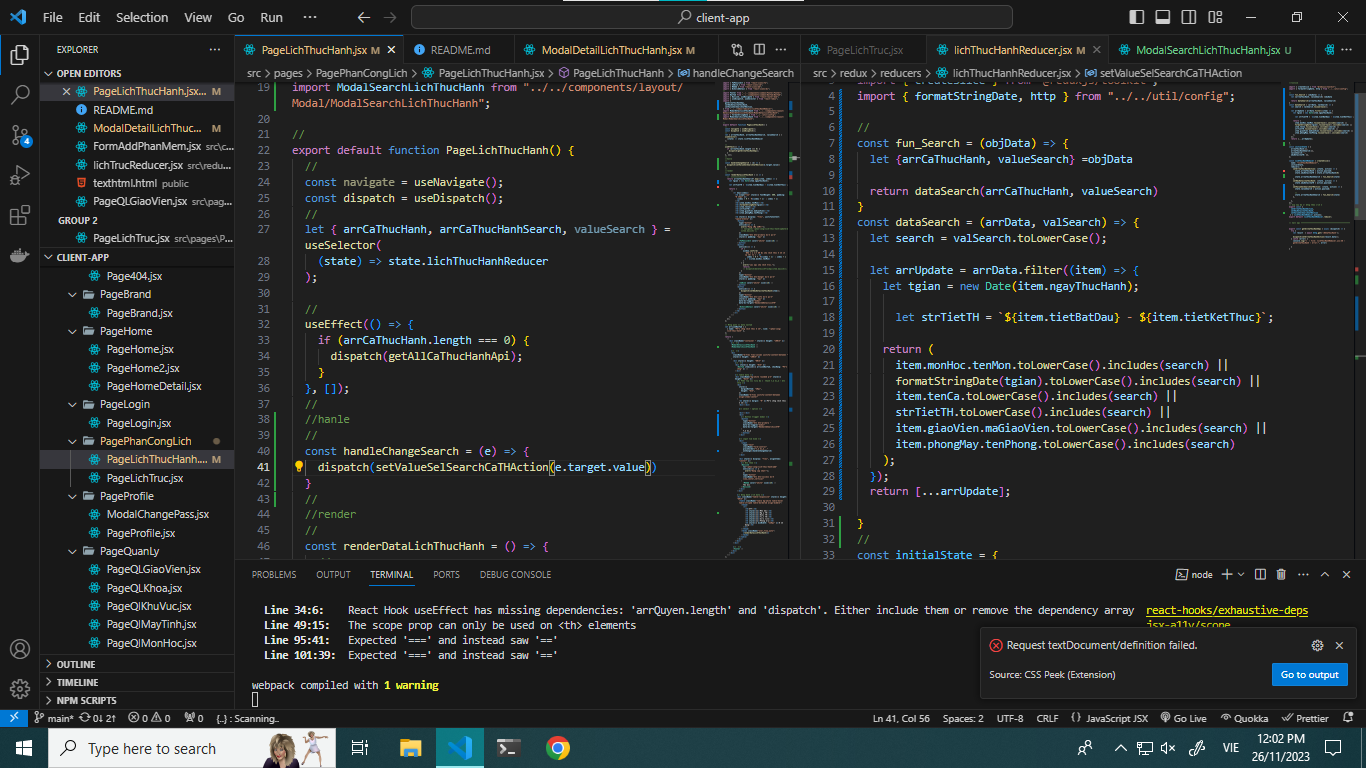
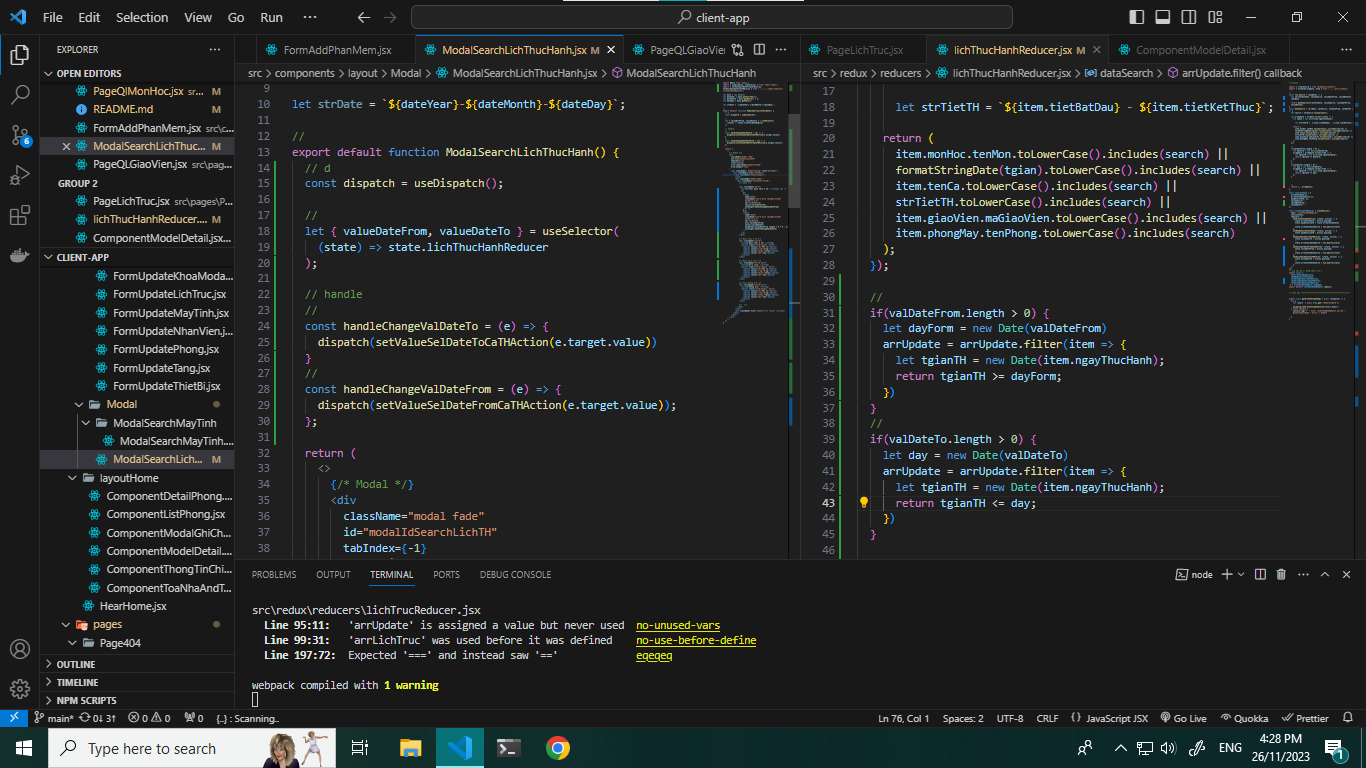
QLLichTH: finish search TgianTH

diff --git a/src/pages/PageQuanLy/PageQlMonHoc.jsx b/src/pages/PageQuanLy/PageQlMonHoc.jsx
@@ -11,7 +11,11 @@ import Footer from "../../components/common/Footer/Footer";
 import Database from "../../util/database/Database";
 import { formatStringDate } from "../../util/config";
 import { useDispatch, useSelector } from "react-redux";
-import { getAllMonHoc, setValueSelectAction, setValueTxtSearchAction } from "../../redux/reducers/monHocReducer";
+import {
+  getAllMonHoc,
+  setValueSelectAction,
+  setValueTxtSearchAction,
+} from "../../redux/reducers/monHocReducer";
 
 export default function PageQlMonHoc() {
   const dispatch = useDispatch();
@@ -24,35 +28,29 @@ export default function PageQlMonHoc() {
     dispatch(action);
   }, []);
 
-
   //handle
   const handleChangeSearch = (e) => {
     dispatch(setValueTxtSearchAction(e.target.value.trim()));
-
   };
   const handleChangeSelectAction = (e) => {
     dispatch(setValueSelectAction(e.target.value.trim()));
-
-  }
+  };
 
   //render
   const renderDataMon = () => {
-
     return arrMonHocSearch?.map((item, index) => {
       let ngayBD = new Date(item?.ngayBatDau);
       let ngayKT = new Date(item?.ngayBatDau);
 
-      ngayKT.setDate(ngayKT.getDate() + item?.soBuoi * 7);
+      ngayKT.setDate(ngayKT.getDate() + (item?.soBuoi + 1) * 7);
 
       // render
       const renderTrangThai = () => {
-        return <td >Đang Cập nhật</td>
         let day = new Date();
         if (day > ngayKT) {
           return <td style={{ backgroundColor: "#ff6666" }}>Kết thúc</td>;
         }
         if (ngayBD > day) {
-          
           return <td style={{ backgroundColor: "#fff563" }}>Chờ mở lớp</td>;
         }
         return <td style={{ backgroundColor: "#4dff7c" }}>Đang học</td>;
@@ -65,10 +63,8 @@ export default function PageQlMonHoc() {
           <td>{item?.maMon}</td>
           <td>{item?.tenMon}</td>
           <td>{item?.soBuoi}</td>
-          <td>{formatStringDate(new Date(item.ngayBatDau))}</td>
-          <td>{formatStringDate(new Date(item.ngayKetThuc))}</td>
-          {/* <td>{formatStringDate(ngayBD)}</td>
-          <td>{formatStringDate(ngayKT)}</td> */}
+          <td>{formatStringDate(ngayBD)}</td>
+          <td>{formatStringDate(ngayKT)}</td>
           {renderTrangThai()}
 
           <td style={{ display: "flex", justifyContent: "space-evenly" }}>
@@ -115,16 +111,16 @@ export default function PageQlMonHoc() {
   };
   const renderSelectTrangThai = () => {
     return (
-        <div className=" col-2 m-2 ">
-          <select className="form-select " onChange={handleChangeSelectAction}>
-            <option value='0'>Toàn bộ</option>
-            <option value="1">Kết thúc</option>
-            <option value="2">Chờ mở lớp</option>
-            <option value="3">Đang học</option>
-          </select>
-        </div>
-    )
-  }
+      <div className=" col-2 m-2 ">
+        <select className="form-select " onChange={handleChangeSelectAction}>
+          <option value="0">Toàn bộ</option>
+          <option value="1">Kết thúc</option>
+          <option value="2">Chờ mở lớp</option>
+          <option value="3">Đang học</option>
+        </select>
+      </div>
+    );
+  };
 
   // Mảng quản lý data navtab
   let arrLinkNavTab = [{ name: "Quản lý môn học", link: "" }];
@@ -154,20 +150,20 @@ export default function PageQlMonHoc() {
               <div></div>
 
               {/* select - option */}
-                {renderSelectTrangThai()}
+              {renderSelectTrangThai()}
               {/* input tim kiem */}
-               <div>
-                  <input
-                    type="text"
-                    className="form-control"
-                    id
-                    placeholder="tìm kiếm..."
-                    // value={txtSearch}
-                    onChange={handleChangeSearch}
-                  />
-                </div>
+              <div>
+                <input
+                  type="text"
+                  className="form-control"
+                  id
+                  placeholder="tìm kiếm..."
+                  // value={txtSearch}
+                  onChange={handleChangeSearch}
+                />
+              </div>
 
-                {/* Btn them */}
+              {/* Btn them */}
               <div style={{ display: "flex", alignItems: "center" }}>
                 <NavLink
                   // to="/quan-ly/tang/add"

diff --git a/src/components/layout/Modal/ModalSearchLichThucHanh.jsx b/src/components/layout/Modal/ModalSearchLichThucHanh.jsx
@@ -1,4 +1,6 @@
 import React from "react";
+import { useDispatch, useSelector } from "react-redux";
+import { setValueSelDateFromCaTHAction, setValueSelDateToCaTHAction } from "../../../redux/reducers/lichThucHanhReducer";
 
 let date = new Date();
 let dateYear = date.getFullYear();
@@ -9,6 +11,24 @@ let strDate = `${dateYear}-${dateMonth}-${dateDay}`;
 
 //
 export default function ModalSearchLichThucHanh() {
+  // d
+  const dispatch = useDispatch();
+
+  //
+  let { valueDateFrom, valueDateTo } = useSelector(
+    (state) => state.lichThucHanhReducer
+  );
+
+  // handle
+  //
+  const handleChangeValDateTo = (e) => {
+    dispatch(setValueSelDateToCaTHAction(e.target.value))
+  }
+  //
+  const handleChangeValDateFrom = (e) => {
+    dispatch(setValueSelDateFromCaTHAction(e.target.value));
+  };
+
   return (
     <>
       {/* Modal */}
@@ -38,24 +58,60 @@ export default function ModalSearchLichThucHanh() {
                 {/* body */}
 
                 <div className="pt-2">
-                  <strong>- Thời gian thực hành: </strong> <br />
-                  <strong>Từ: 
-                  <input
-                    type="date"
-                    className="col-4 mx-2"
-                    id="dateFrom"
-                    max={strDate}
-                  /> Đến: 
-                  <input
-                    type="date"
-                    className="col-4 mx-2"
-                    id="dateTo"
-                    max={strDate}
-                    disabled={false}
-                  />
+                  <strong>Thời gian thực hành: </strong> <br />
+                  <p>
+                    Từ:
+                    <input
+                      type="date"
+                      className="col-4 mx-2 rounded border border-1 p-1"
+                      id="valDateFrom"
+                      value={valueDateFrom}
+                      onChange={handleChangeValDateFrom}
+                    />{" "}
+                    Đến:
+                    <input
+                      type="date"
+                      className="col-4 mx-2 rounded border border-1 p-1"
+                      id="valDateTo"
+                      min={valueDateFrom}
+                      value={valueDateTo}
+                      disabled={valueDateFrom.length > 0 ? 0 : 1}
+                      onChange={handleChangeValDateTo}
+                    />
+                  </p>
+                </div>
 
+                {/* Buổi thực hành */}
+                <div className="col-6">
+                  <strong>Buổi thực hành: </strong>
+                  <select class="form-select  ms-2">
+                    <option value={-1}>Tất cả</option>
+                    <option value="sáng">Sáng</option>
+                    <option value="chiều">Chiều</option>
+                    <option value="tối">Tối</option>
+                  </select>
+                </div>
 
-</strong>
+                {/* Buổi Giáo viên */}
+                <div className="col-6 pt-3">
+                  <strong>Giáo viên: </strong>
+                  <select class="form-select  ms-2">
+                    <option value={-1}>Tất cả</option>
+                    <option value="sáng">Sáng</option>
+                    <option value="chiều">Chiều</option>
+                    <option value="tối">Tối</option>
+                  </select>
+                </div>
+
+                {/* Buổi phòng máy */}
+                <div className="col-6 pt-3">
+                  <strong>Phòng máy: </strong>
+                  <select class="form-select  ms-2">
+                    <option value={-1}>Tất cả</option>
+                    <option value="sáng">Sáng</option>
+                    <option value="chiều">Chiều</option>
+                    <option value="tối">Tối</option>
+                  </select>
                 </div>
 
                 {/*  */}

diff --git a/src/redux/reducers/lichThucHanhReducer.jsx b/src/redux/reducers/lichThucHanhReducer.jsx
@@ -5,11 +5,11 @@ import { formatStringDate, http } from "../../util/config";
 
 //
 const fun_Search = (objData) => {
-  let {arrCaThucHanh, valueSearch} =objData
+  let {arrCaThucHanh, valueSearch, valueDateFrom, valueDateTo} =objData
 
-  return dataSearch(arrCaThucHanh, valueSearch)
+  return dataSearch(arrCaThucHanh, valueSearch, valueDateFrom, valueDateTo)
 }
-const dataSearch = (arrData, valSearch) => {
+const dataSearch = (arrData, valSearch, valDateFrom, valDateTo ) => {
   let search = valSearch.toLowerCase();
   
   let arrUpdate = arrData.filter((item) => {
@@ -26,15 +26,37 @@ const dataSearch = (arrData, valSearch) => {
       item.phongMay.tenPhong.toLowerCase().includes(search) 
     );
   });
-  return [...arrUpdate];
 
+  //
+  if(valDateFrom.length > 0) {
+    let dayForm = new Date(valDateFrom)
+    arrUpdate = arrUpdate.filter(item => {
+      let tgianTH = new Date(item.ngayThucHanh);
+      return tgianTH >= dayForm;
+    })
+  }
+  //
+  if(valDateTo.length > 0) {
+    let day = new Date(valDateTo)
+    arrUpdate = arrUpdate.filter(item => {
+      let tgianTH = new Date(item.ngayThucHanh);
+      return tgianTH <= day;
+    })
+  }
+
+
+
+  //
+  return [...arrUpdate];
 }
 //
 const initialState = {
   arrCaThucHanh:[],
   arrCaThucHanhSearch:[],
-  valueSearch:'',
   objDetailCaTH: {},
+  valueSearch:'',
+  valueDateFrom:'',
+  valueDateTo:'',
 };
 
 const lichThucHanhReducer = createSlice({
@@ -52,18 +74,28 @@ const lichThucHanhReducer = createSlice({
     },
     setValueSelSearchCaTHAction: (state, action) => {
       state.valueSearch = action.payload;
-
       //
       state.arrCaThucHanhSearch = fun_Search(state)
     },
-    
+    setValueSelDateFromCaTHAction: (state, action) => {
+      state.valueDateFrom = action.payload;
+      //
+      state.arrCaThucHanhSearch = fun_Search(state)
+    },
+    setValueSelDateToCaTHAction: (state, action) => {
+      state.valueDateTo = action.payload;
+      //
+      state.arrCaThucHanhSearch = fun_Search(state)
+    },
   },
 });
 // exp nay de sử dụng theo cách 2
 export const { 
   setArrCaThucHanhAction,
   setObjDetailCaThucHanh,
-  setValueSelSearchCaTHAction
+  setValueSelSearchCaTHAction,
+  setValueSelDateFromCaTHAction,
+  setValueSelDateToCaTHAction,
  } = lichThucHanhReducer.actions;
 export default lichThucHanhReducer.reducer;
 

diff --git a/src/redux/reducers/lichTrucReducer.jsx b/src/redux/reducers/lichTrucReducer.jsx
@@ -140,7 +140,6 @@ export const getAllTangByToaNhaApi = (arrtang) => {
 export const getAllTangChuaCoLichTrucApi = async (dispatch) => {
   try {
 
-    console.log('api này bi lỗi - lấy ds tang đã có lịch trực');
     const result = await http.get("/TangChuaCoNhanVienTrucTrongThang");
 
     let arrDataToaNha_z = result.data.map((item) => {

diff --git a/README.md b/README.md
@@ -123,10 +123,17 @@
     - lichTrucReducer :có api server rồi - update di - T sửa page QL vs form add rồi 
     - lichTrucReducer: api lỗi TangChuaCoNhanVienTrucTrongThang .
     - QL phần mềm chưa có event update - del
-    - PageQlMonHoc data chua ổn
+    - PageQlMonHoc - search chưa có 
     - PageQlMonHoc CRUD chua co gi
     - Page update duoc gui từ deltail thi phai sửa - lấy data theo api maID chứ không chả về page QL
 
+    # PageQlMonHoc
+    - tạo mới có so buoi vs ngày bd +> ngay kết thúc (sau Tgian thực 1 tuần)
+    - ứng vs số buổi sẽ tạo so lượng ca  của môn đó bằng so buôi (mon học)
+    - dựa theo controller DSMonHocPhanMem/maMon  đểtạo status (đợi mởi lớp (controller có length = 0 ) hay là dang học(controller có length > 0 ))
+    - dựa theo controller DSMonHocPhanMem/maMon co thể lấy số lượng ca TH dã tạo so sanh vs so buổi dể khogno cho tạo ca TH mới nữa
+
+    #
     - ComponentModalGhiChu: err check box trùng value (mavalue) - lấy thông tin - xác nhận gửi
         + api thong báo - gửi ghi chú cùng thietbi bị lỗi  lưu data
         + btn sửa (bên cạnh textErr Thiet bị lỗi) hiên 1 modal chon cac tbi lỗi đã sủa xong cap nhật vao data;
